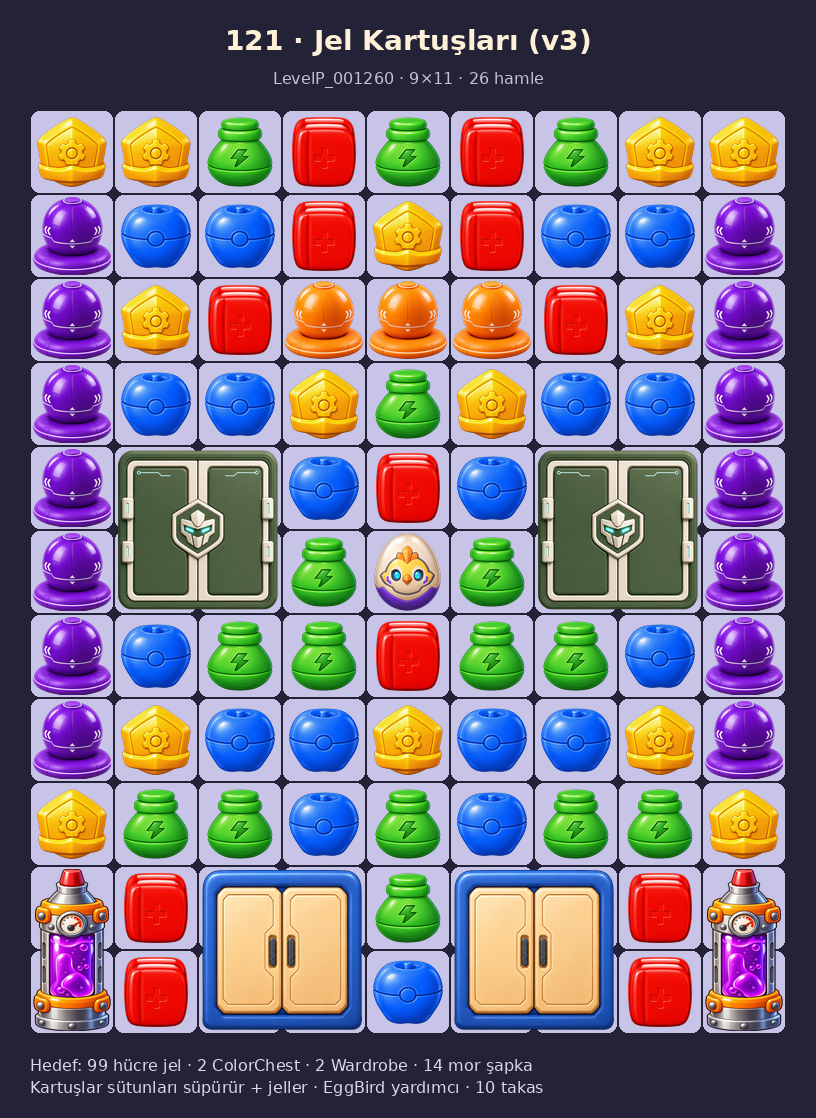
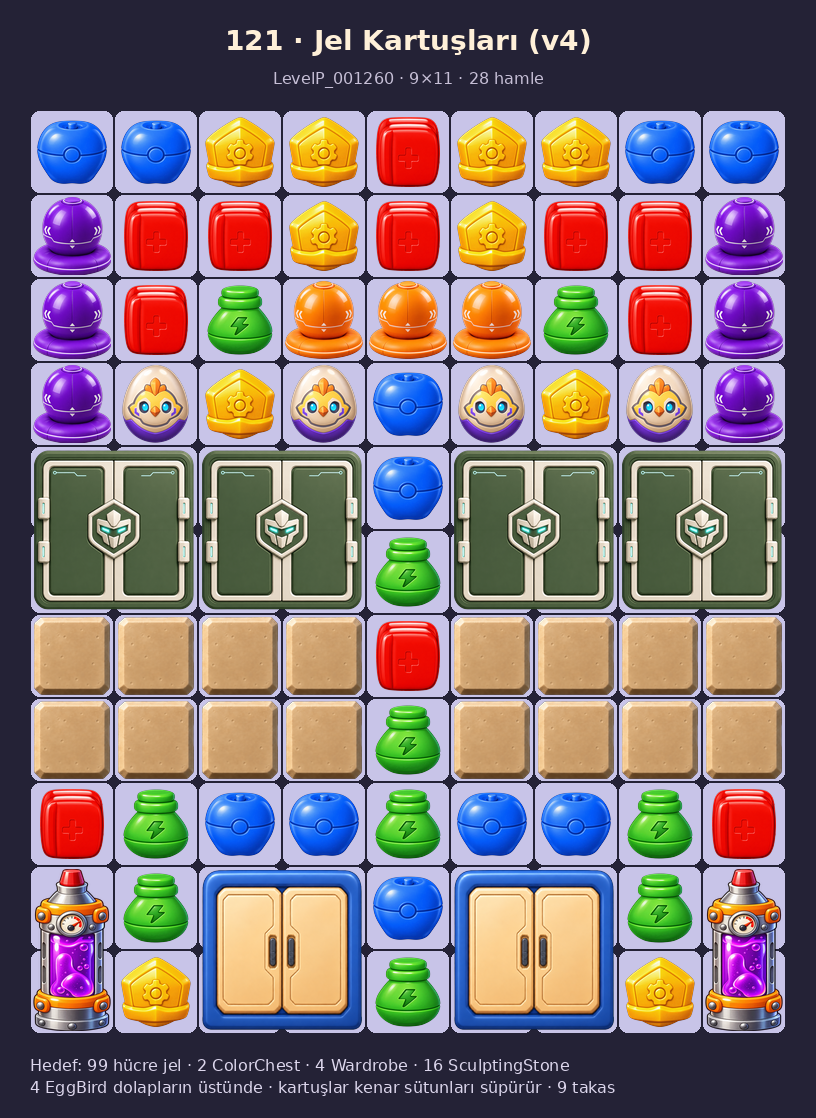
Level 121 v4: wardrobe band, sculpting stone rows, four EggBirds
User's layout: four Wardrobes side by side (centre column open), two rows
of SculptingStone (4th and 5th from the bottom, same gap), four EggBirds
on the row above the wardrobes, ColorChests and upward gel launchers on
the bottom rows. Goals: 99 gel, 2 ColorChest, 4 Wardrobe, 16
SculptingStone. 28 moves. Same asset GUID.

Claude-Session: https://claude.ai/code/session_011SM6jAozhV5f6ndTXzk3GM

diff --git a/Docs/LevelDesign/Level121-Jel-Kartuslari.md b/Docs/LevelDesign/Level121-Jel-Kartuslari.md
@@ -1,6 +1,6 @@
-# Level 121 — Jel Kartuşları (v3)
+# Level 121 — Jel Kartuşları (v4)
 
-`LevelCatalogPro` global 121 → `LevelP_001260.asset`. Tam 9×11, 26 hamle. Kolay ama hareketli: jel fırlatıcı (kartuş) tanıtımı + ColorChest ve Wardrobe.
+`LevelCatalogPro` global 121 → `LevelP_001260.asset`. Tam 9×11, 28 hamle. Jel fırlatıcı (kartuş) tanıtımı; kullanıcı tarifiyle Wardrobe ve SculptingStone bantları.
 
 ## Kompozisyon
 
@@ -8,32 +8,34 @@
 ooooooooo
 PoooooooP
 PooQQQooP
-PoooooooP
-PDDoooDDP
-PDDoeoDDP
-PoooooooP
-PoooooooP
+PeoeoeoeP
+DDDDoDDDD
+DDDDoDDDD
+SSSSoSSSS
+SSSSoSSSS
 ooooooooo
 ^oCCoCCo^
 ^oCCoCCo^
 ```
 
-- `^` alt köşelerde yukarı bakan kartuşlar (GelLauncherUp, 1×2): special ile 2 vuruş → sütunu süpürür, mor şapkaları siler, sütunu jeller.
-- `P` iki kenar sütunda 14 mor şapka (plastic, 7).
-- `D` iki Wardrobe (27, 2×2): kapı açılır, içindeki eşyalar tek tek çıkar.
-- `C` iki ColorChest (21, 2×2): dört rengin eşleşmesiyle açılır; kartuşların arasında, alt satırda (altında beslenecek hücre yok).
-- `Q` üç turuncu şapka (vurgu, hedef değil), `e` EggBird (yardımcı), `o` normal taş. Başlangıçta açık jel yok.
+- `^` alt köşelerde yukarı bakan kartuşlar (GelLauncherUp): sütunu süpürür (taş, dolap, şapka), sütunu jeller.
+- `D` 4 Wardrobe (2×2) yan yana, ortadaki 5. sütun boş.
+- `S` alttan 4. ve 5. satırlarda 16 SculptingStone, ortada aynı boşluk.
+- `e` dolapların üstünde 4 EggBird (yardımcı) — dolap ve taşların getirdiği zorluğu dengeler.
+- `C` alt satırda 2 ColorChest. `P` 6 mor şapka, `Q` 3 turuncu şapka (vurgu), `o` normal taş. Başlangıçta açık jel yok.
 
 ## Hedefler
 
-99 hücre jel, 2 ColorChest, 2 Wardrobe, 14 mor şapka.
+99 hücre jel, 2 ColorChest, 4 Wardrobe, 16 SculptingStone.
+
+## Akış notu
+
+Dolap ve taş bantları yalnız orta sütunda geçit bırakır. 8. satırın iki yanı ve kartuş yanındaki hücreler, taşlar kırılana kadar yukarıdan beslenmez; buradaki taşlar temizlenirse hücre boş kalır. Kartuş atışı ve taş kırılması bölgeyi açtıkça normal akış başlar.
 
 ## Revizyonlar
 
-- v1 yatay kartuşlar + açık jel — sade.
-- v2 yukarı bakan kartuşlar + şapka sütunları + kemer — kolay ve tek düze bulundu.
-- v3: ColorChest ve Wardrobe eklendi (repoda bu dönemde ilk kullanım), daha çeşitli hedefler.
+v1 sade; v2 tek düze; v3 ColorChest + 2 Wardrobe; v4 kullanıcı tarifi: 4 Wardrobe bandı, 2 sıra SculptingStone, 4 EggBird.
 
 ## Statik kontrol
 
-2×2 origin'leri, kartuş origin'leri, hedef adetleri ve katalog bağlantısı (GUID korunarak) kontrol edildi. Hazır üçlü/2×2 yok, 10 geçerli takas. Unity'de çalıştırılmadı.
+2×2 origin'leri, kartuş origin'leri, hedef adetleri ve katalog bağlantısı (GUID korunarak) kontrol edildi. Hazır üçlü/2×2 yok, 9 geçerli takas. Unity'de çalıştırılmadı.
